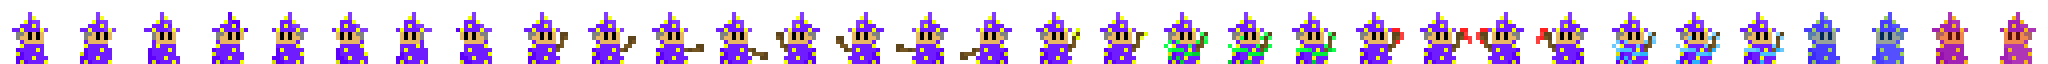
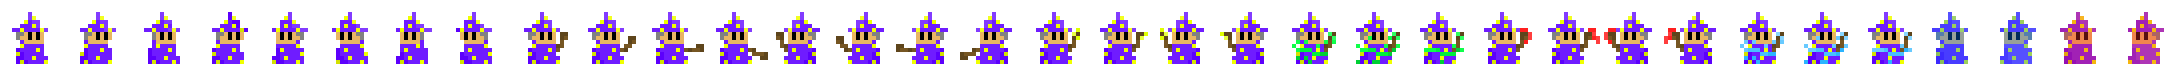
left and right shoot animation

diff --git a/js/level1.js b/js/level1.js
@@ -19,10 +19,10 @@ var level1State = {
     player.animations.add('left', [4, 5, 6, 7], 10, false);
     player.animations.add('rightSwing', [8, 9, 10, 11, 0], 10, false);
     player.animations.add('leftSwing', [12, 13, 14, 15, 4], 10, false);
-    player.animations.add('hitL', [30, 0], 8, false);
-    player.animations.add('hitR', [31, 4], 8, false);
-    player.animations.add('leftBolt', [14, 4], 8, false);
-    player.animations.add('rightBolt', [10, 3], 8, false);
+    player.animations.add('hitL', [32, 0], 8, false);
+    player.animations.add('hitR', [33, 4], 8, false);
+    player.animations.add('leftBolt', [18, 19, 4], 8, false);
+    player.animations.add('rightBolt', [16, 17, 0], 8, false);
     player.invincible = false;
 
     //group to collect platforms
@@ -90,7 +90,7 @@ var level1State = {
     spellselect.frame = 3;
     spellselect.fixedToCamera = true;
 
-    //create mage bolt
+    //create mage bolt, if fired take one mana
     weapon = game.add.weapon(10, 'magebolt');
     weapon.bulletKillType = Phaser.Weapon.KILL_WORLD_BOUNDS; //destroyed when off-screen
     weapon.bulletKillType = Phaser.Weapon.KILL_DISTANCE; //destroyed after a given distance
@@ -143,12 +143,12 @@ var level1State = {
     if (zKey.isDown && direction.facing == "left") {
       player.animations.play("leftSwing");
       player.invincible = true;
-      game.time.events.add(800, () => {
+      game.time.events.add(600, () => {
         player.invincible = false});
     } else if (zKey.isDown && direction.facing == "right") {
       player.animations.play("rightSwing");
       player.invincible = true;
-      game.time.events.add(800, () => {
+      game.time.events.add(600, () => {
         player.invincible = false});
     }
 
